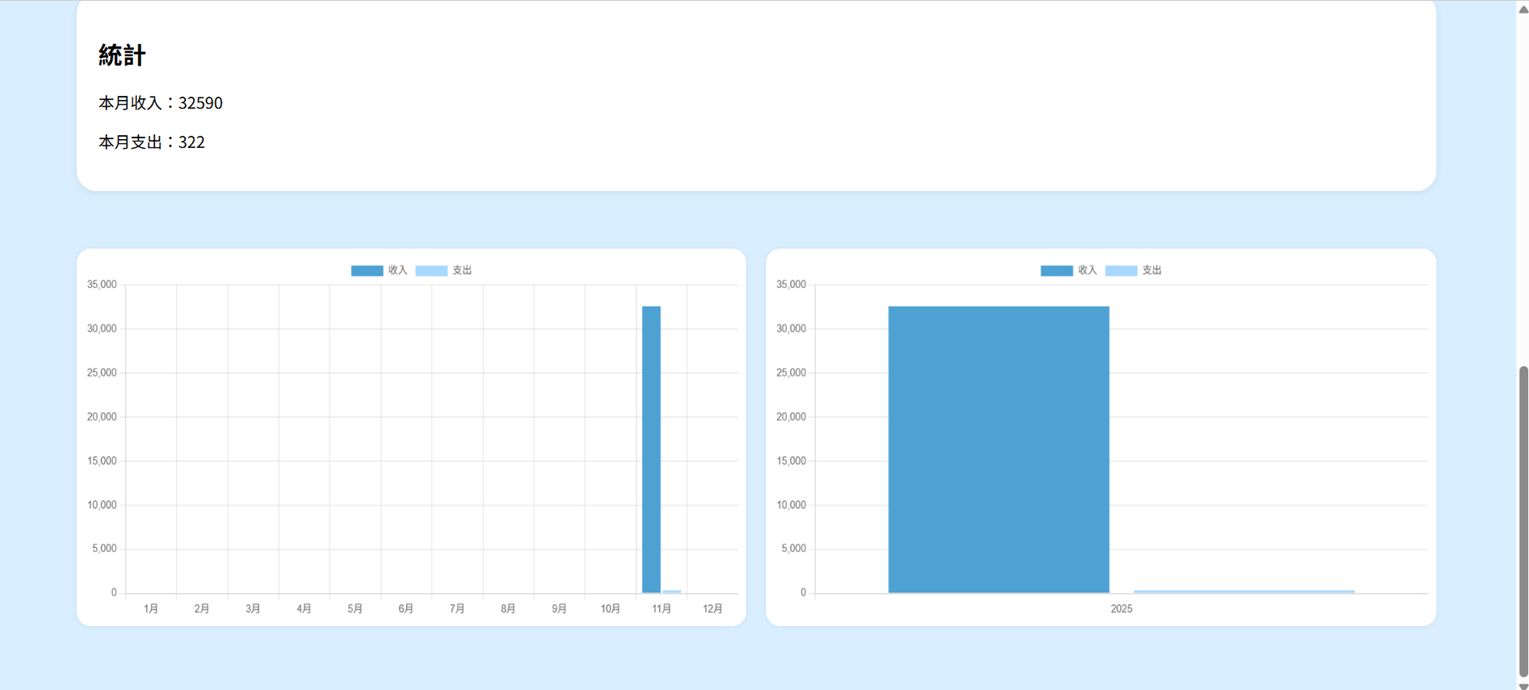
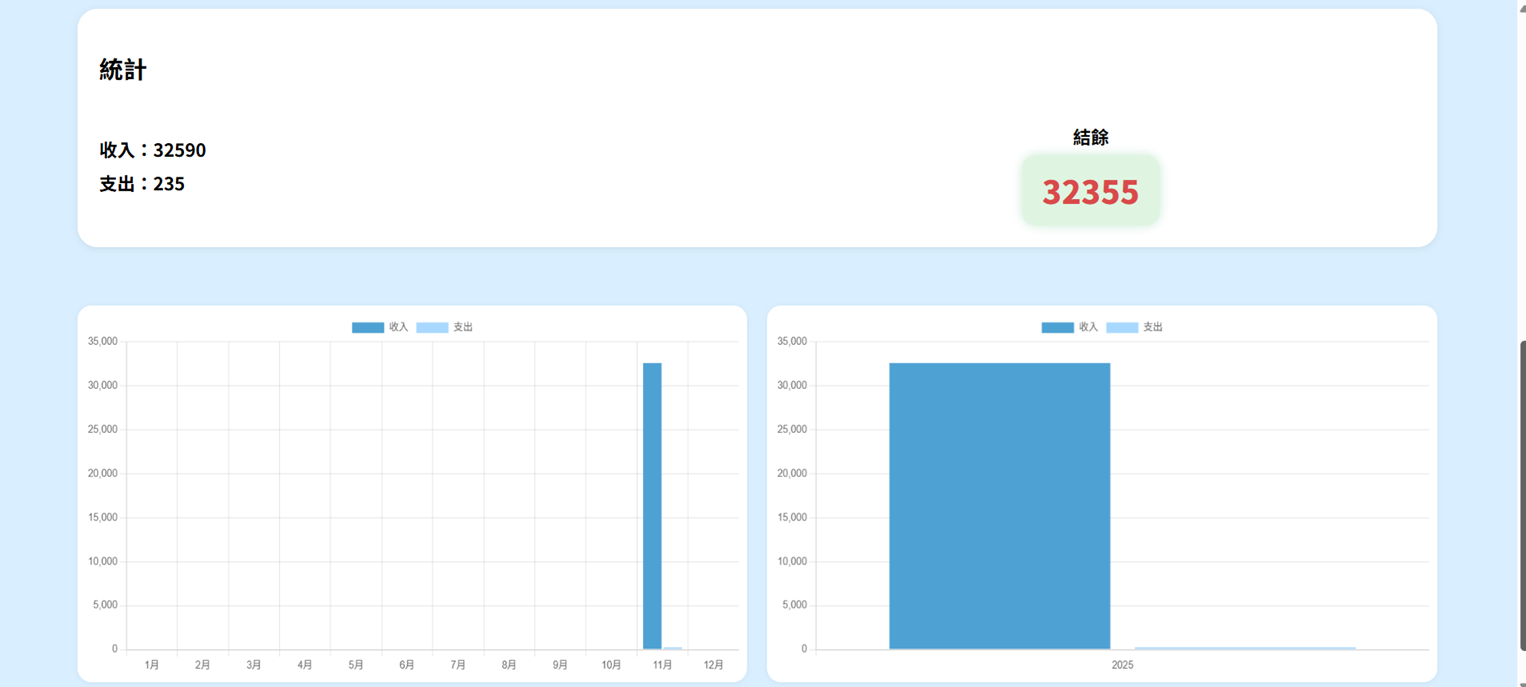
reNew_1108

diff --git a/style.css b/style.css
@@ -347,7 +347,7 @@ canvas {
 .highlight-balance {
   display: inline-block;
   padding: 12px 20px;
-  font-size: 26px;
+  font-size: 32px;
   font-weight: 900;
   border-radius: 14px;
   

diff --git a/README.md b/README.md
@@ -27,7 +27,7 @@
 2. 新增「收入」或「支出」紀錄，並且以顏色標記區分
 1. 刪除記帳項目
 2. 可自訂分類（如新增「投資」、「旅遊」等）
-3. 自動計算本月與本年收入、支出總額
+3. 自動計算結餘、本月與本年收入、支出總額
 4. 以圖表呈現每月與年度的統計結果
 5. 支援 localStorage，自動保存紀錄，下次開啟不會消失
 
